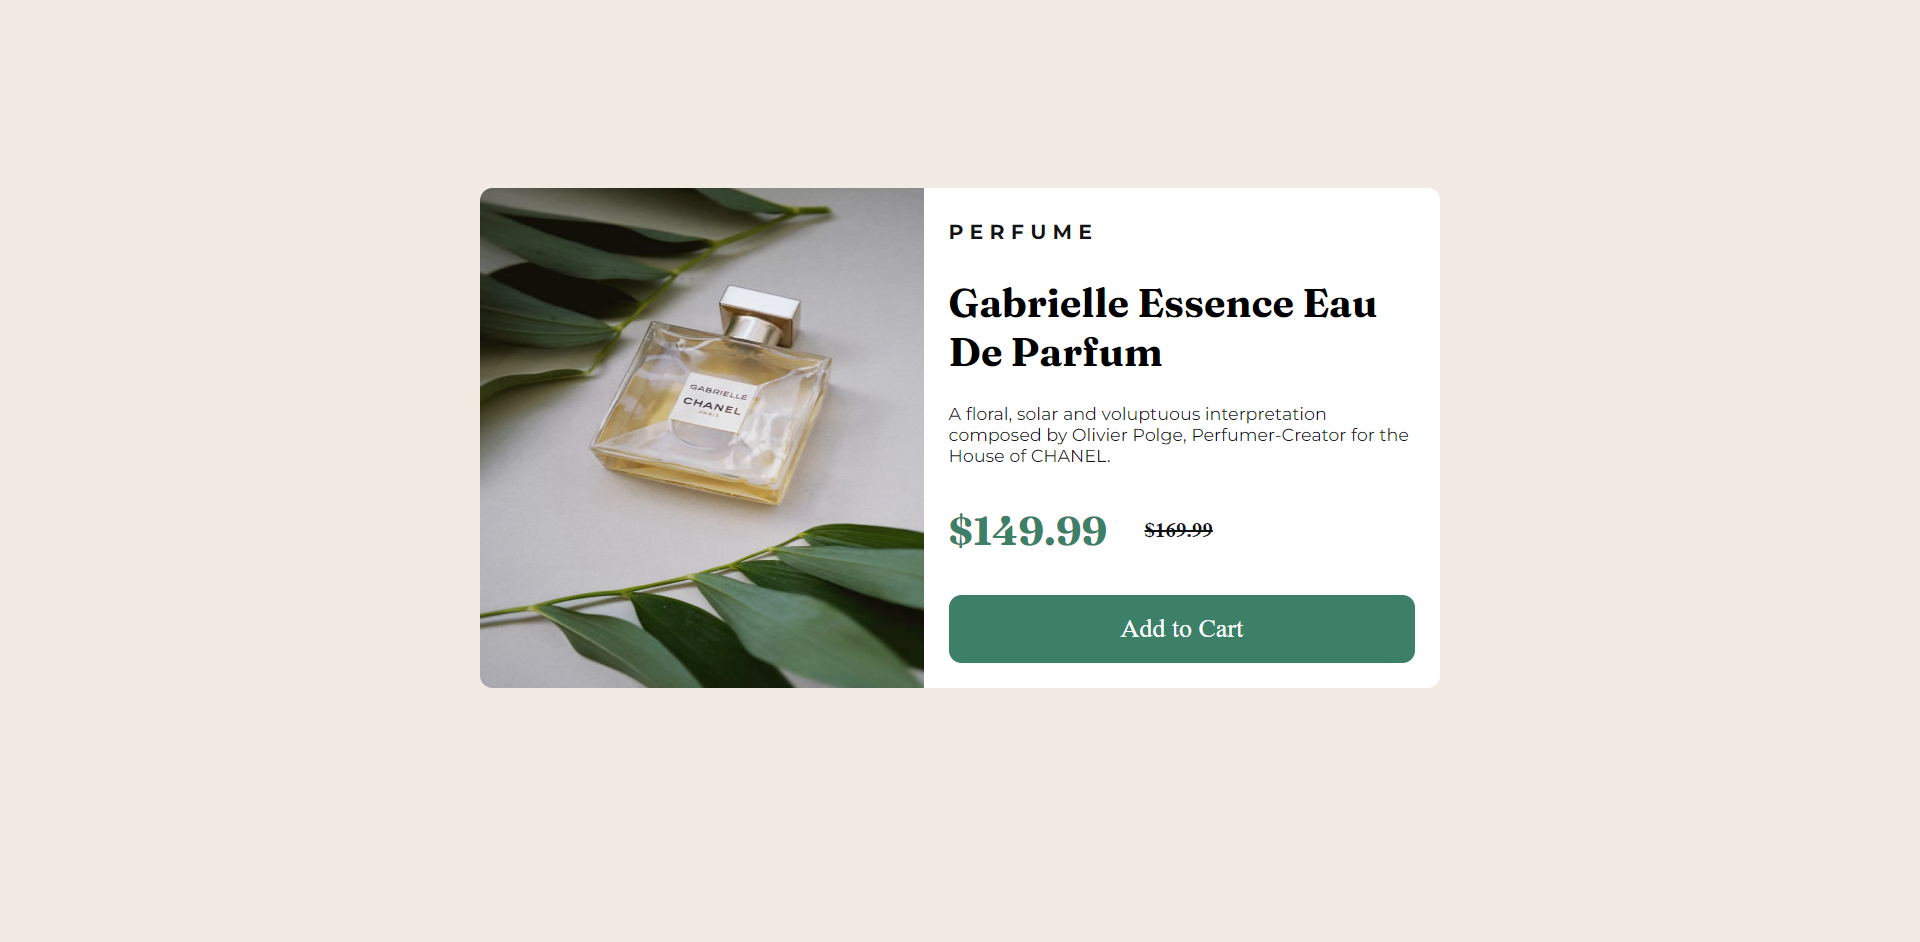
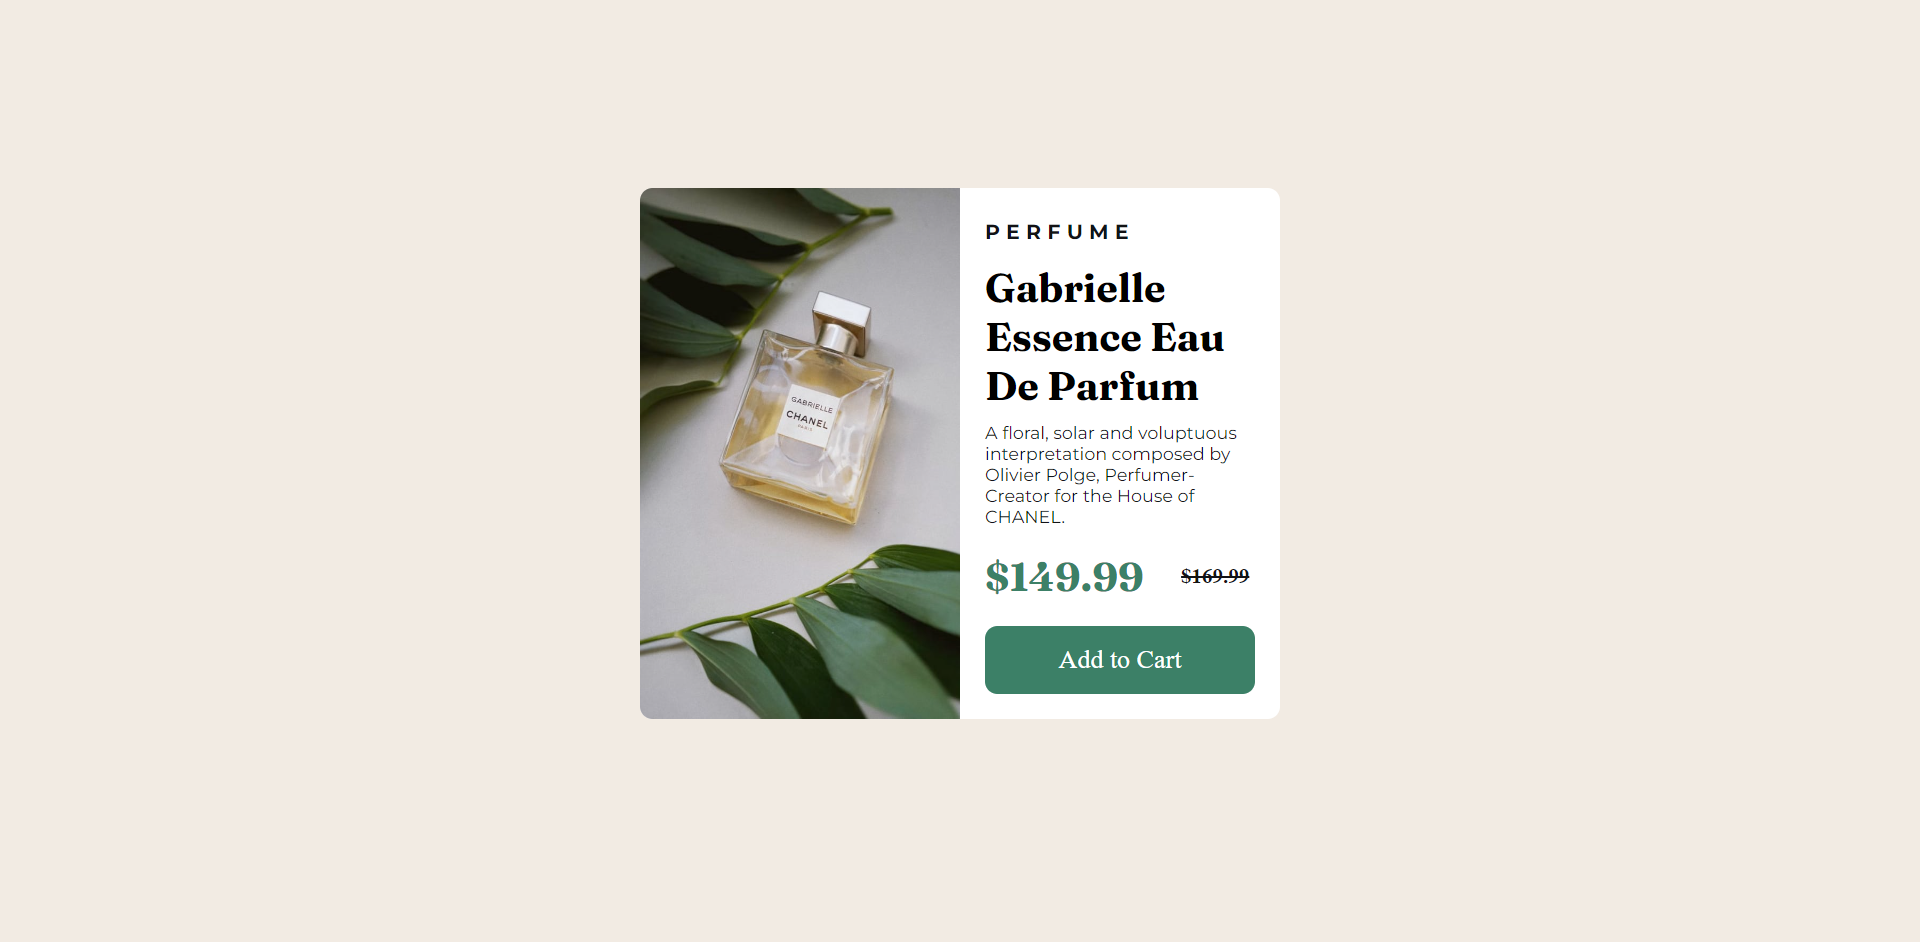
fixed the image

Changed region(s): [[0.25, 0.1847, 0.75, 0.7696]]

diff --git a/FrontendMentor/product-preview-card-component-main/css/style.css b/FrontendMentor/product-preview-card-component-main/css/style.css
@@ -50,7 +50,6 @@ body{
 
 .product{
     background-color: var(--White);
-    /* max-height: 600px;  */
     grid-column: 2/12;
     display: flex;
     flex-direction: column;
@@ -122,11 +121,12 @@ body{
 @media screen and (min-width: 960px) {
     
     .product{
-        display: flex;
-        flex-direction: row;
+        /* display: flex;
+        flex-direction: row; */
+        display: grid;
+        grid-template-columns: repeat(4,1fr);
         grid-column: 5/9;
         margin-top: 150px;
-        max-height: 400px;
         justify-content: center;
     }
     
@@ -140,6 +140,7 @@ body{
 
     .product-image{
         width: 100%;
+        grid-column: span 2;
     }
     
     .product-image img{
@@ -149,6 +150,7 @@ body{
 
     .product-details{
         display: flex;
+        grid-column: span 2;
         justify-content: space-between;
         flex-direction: column;
     }
